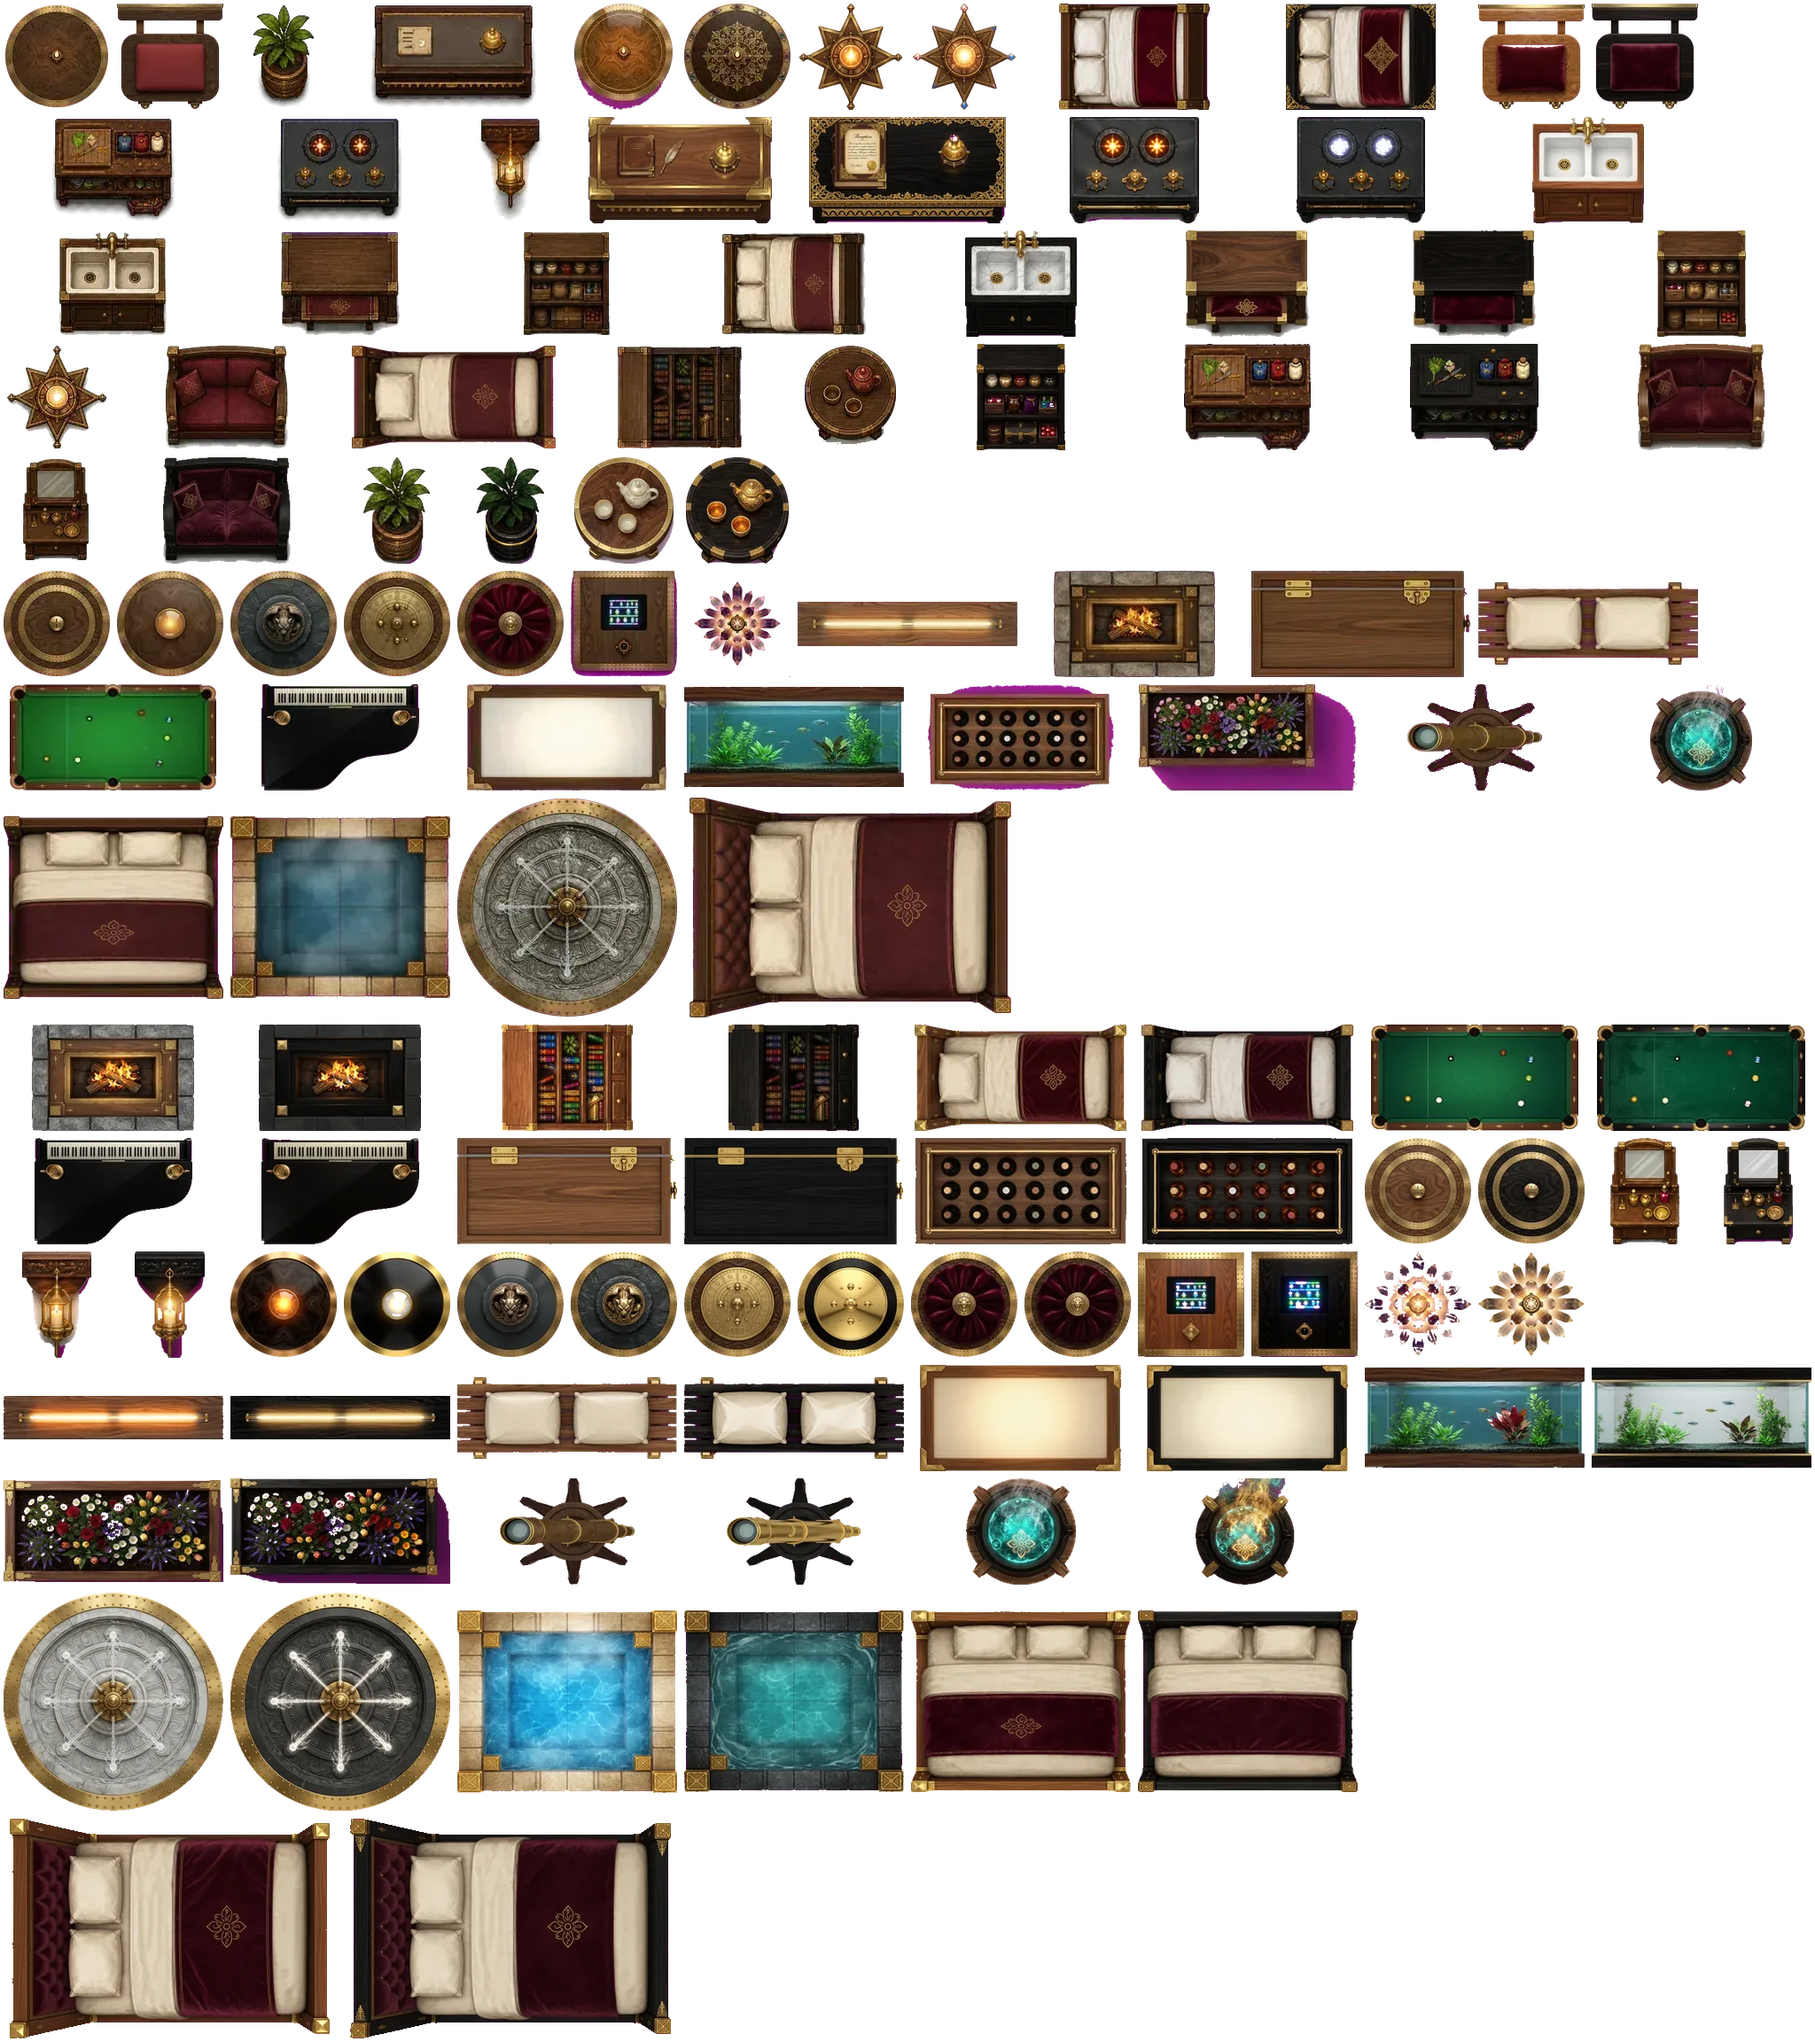
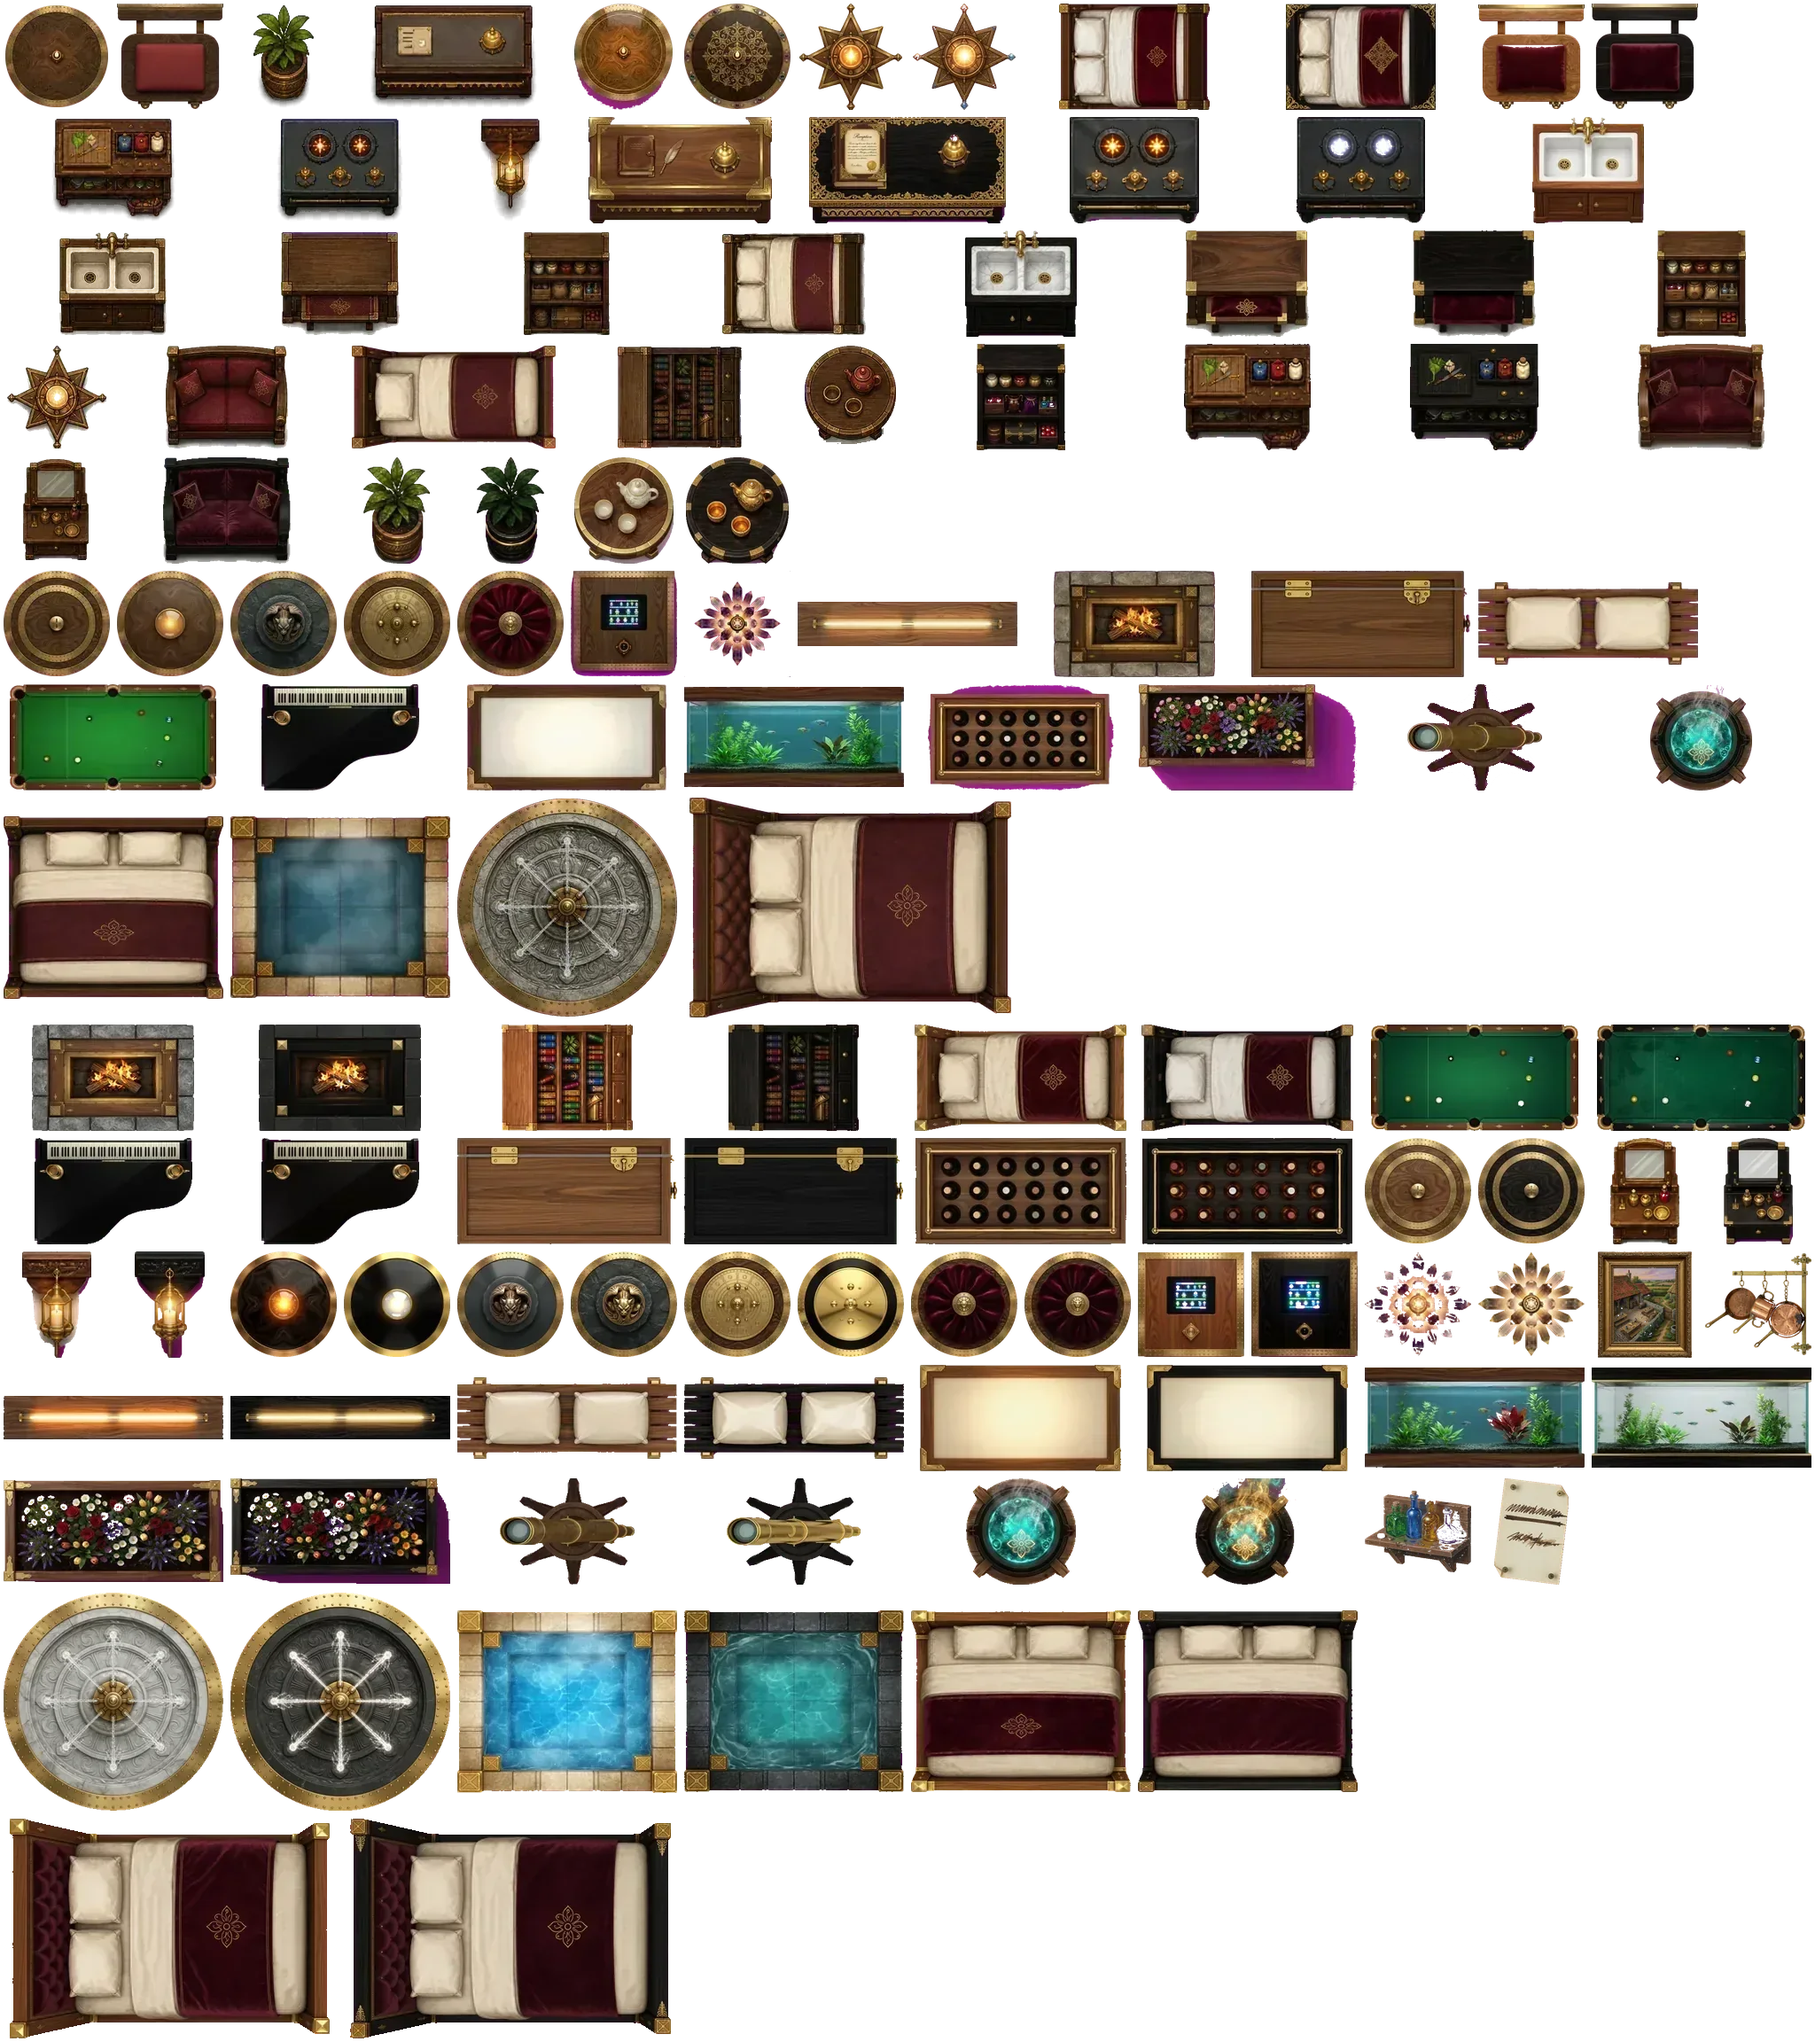
feat: swap HD wall decos for painting, pans, bottles, and crate tags
Classic pixel hangings stay in classic pack. HD rooms now use painted 24px plaques instead of 22x8 pixel strips.

Changed region(s): [[0.875, 0.5938, 1.0, 0.6875], [0.75, 0.7188, 0.875, 0.7812]]

diff --git a/game.js b/game.js
@@ -168,6 +168,8 @@ const FURNITURE_ATLAS_FRAMES = {
   banner: [512, 640, 128, 128], banner2: [1024, 1408, 128, 128], banner3: [1152, 1408, 128, 128],
   arcadem: [640, 640, 128, 128], arcadem2: [1280, 1408, 128, 128], arcadem3: [1408, 1408, 128, 128],
   crystal: [768, 640, 128, 128], crystal2: [1536, 1408, 128, 128], crystal3: [1664, 1408, 128, 128],
+  painting: [1792, 1408, 128, 128], pans: [1920, 1408, 128, 128],
+  bottles: [1536, 1664, 128, 128], crate: [1664, 1664, 128, 128],
   lightbar: [896, 640, 256, 128], lightbar2: [0, 1536, 256, 128], lightbar3: [256, 1536, 256, 128],
   fireplace: [1152, 640, 256, 128], fireplace2: [0, 1152, 256, 128], fireplace3: [256, 1152, 256, 128],
   icebox: [1408, 640, 256, 128], icebox2: [512, 1280, 256, 128], icebox3: [768, 1280, 256, 128],
@@ -2407,9 +2409,9 @@ class Game                    {
           if (!nb && ((x * 5 + y * 3 + side) % 4 === 0)) {
             const pick = WALL_DECO[r.kind] || WALL_DECO.dining;
             const kindDeco = pick[(x + y + side) % pick.length];
-            const hdSconce = kindDeco === 'sconce' && this.materialPack === 'hd' ? furnitureAtlasTexture('sconce', this.worldMaterials.get('furniture')) : null;
-            const d = new PIXI.Sprite(hdSconce || decoTex(kindDeco, horiz));
-            if (hdSconce) { d.width = 24; d.height = 24; d.rotation = horiz ? 0 : Math.PI / 2; }
+            const hdDeco = this.materialPack === 'hd' ? furnitureAtlasTexture(kindDeco, this.worldMaterials.get('furniture')) : null;
+            const d = new PIXI.Sprite(hdDeco || decoTex(kindDeco, horiz));
+            if (hdDeco) { d.width = 24; d.height = 24; d.rotation = horiz ? 0 : Math.PI / 2; }
             else d.tint = hexToNum(styleById(this.tavern.roomStyle(r)).furnTint);
             d.anchor.set(0.5);
             if (side === 0) { d.x = x * T + T / 2; d.y = y * T + 4; }
